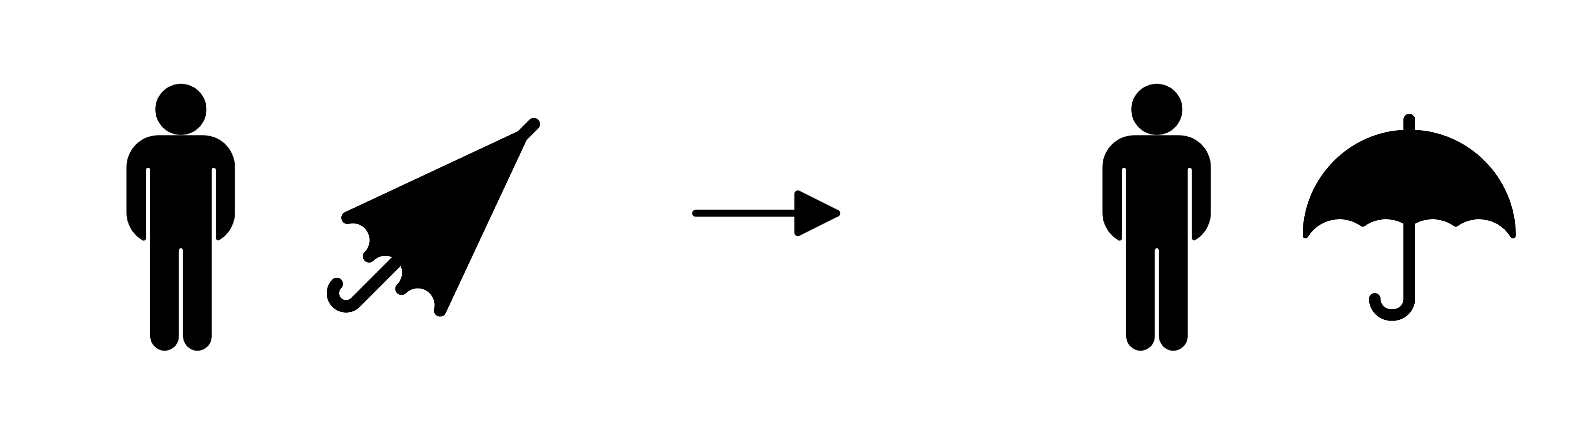
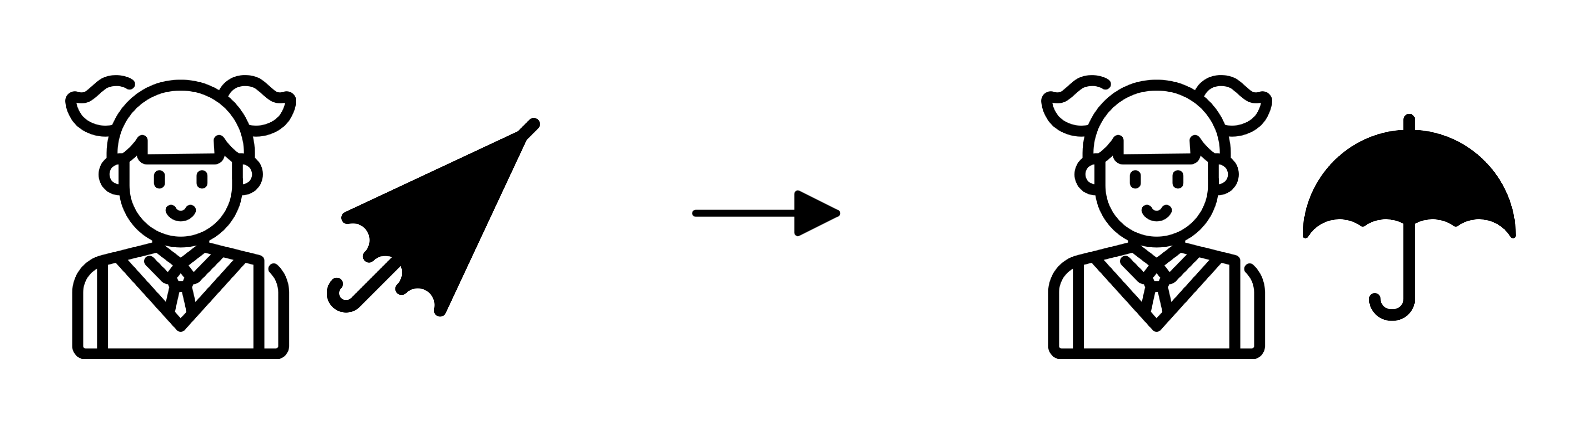
practice trials

Changed region(s): [[0.6476, 0.1793, 0.8018, 0.8368], [0.0308, 0.1793, 0.185, 0.8368]]

diff --git a/Exp2/exp2.html b/Exp2/exp2.html
@@ -763,7 +763,7 @@
             예를 들어:
           </h3>
           <p>
-            그림 1은 사람이 처음에는 접혀 있던 우산을 펼치는 상황을 나타내는 그림입니다.
+            그림 1은 학생이 처음에는 접혀 있던 우산을 펼치는 상황을 나타냅니다.
           </p>
           <div class="example-screen">
             <img src="ex/practice_umbrella_change.png" class="instruction-example-image">
@@ -772,7 +772,7 @@
             </p>
           </div>
           <p>
-            그림 2는 처음과 이후의 상태가 같아,우산이 그대로 접혀 있는 상황을 나타내는 그림입니다.
+            그림 2는 학생이 우산을 펼치지 않아, 우산이 접힌 상태로 그대로 있는 상황을 나타냅니다.
           </p>
           <div class="example-screen">
             <img src="ex/practice_umbrella_no_change.png" class="instruction-example-image">
